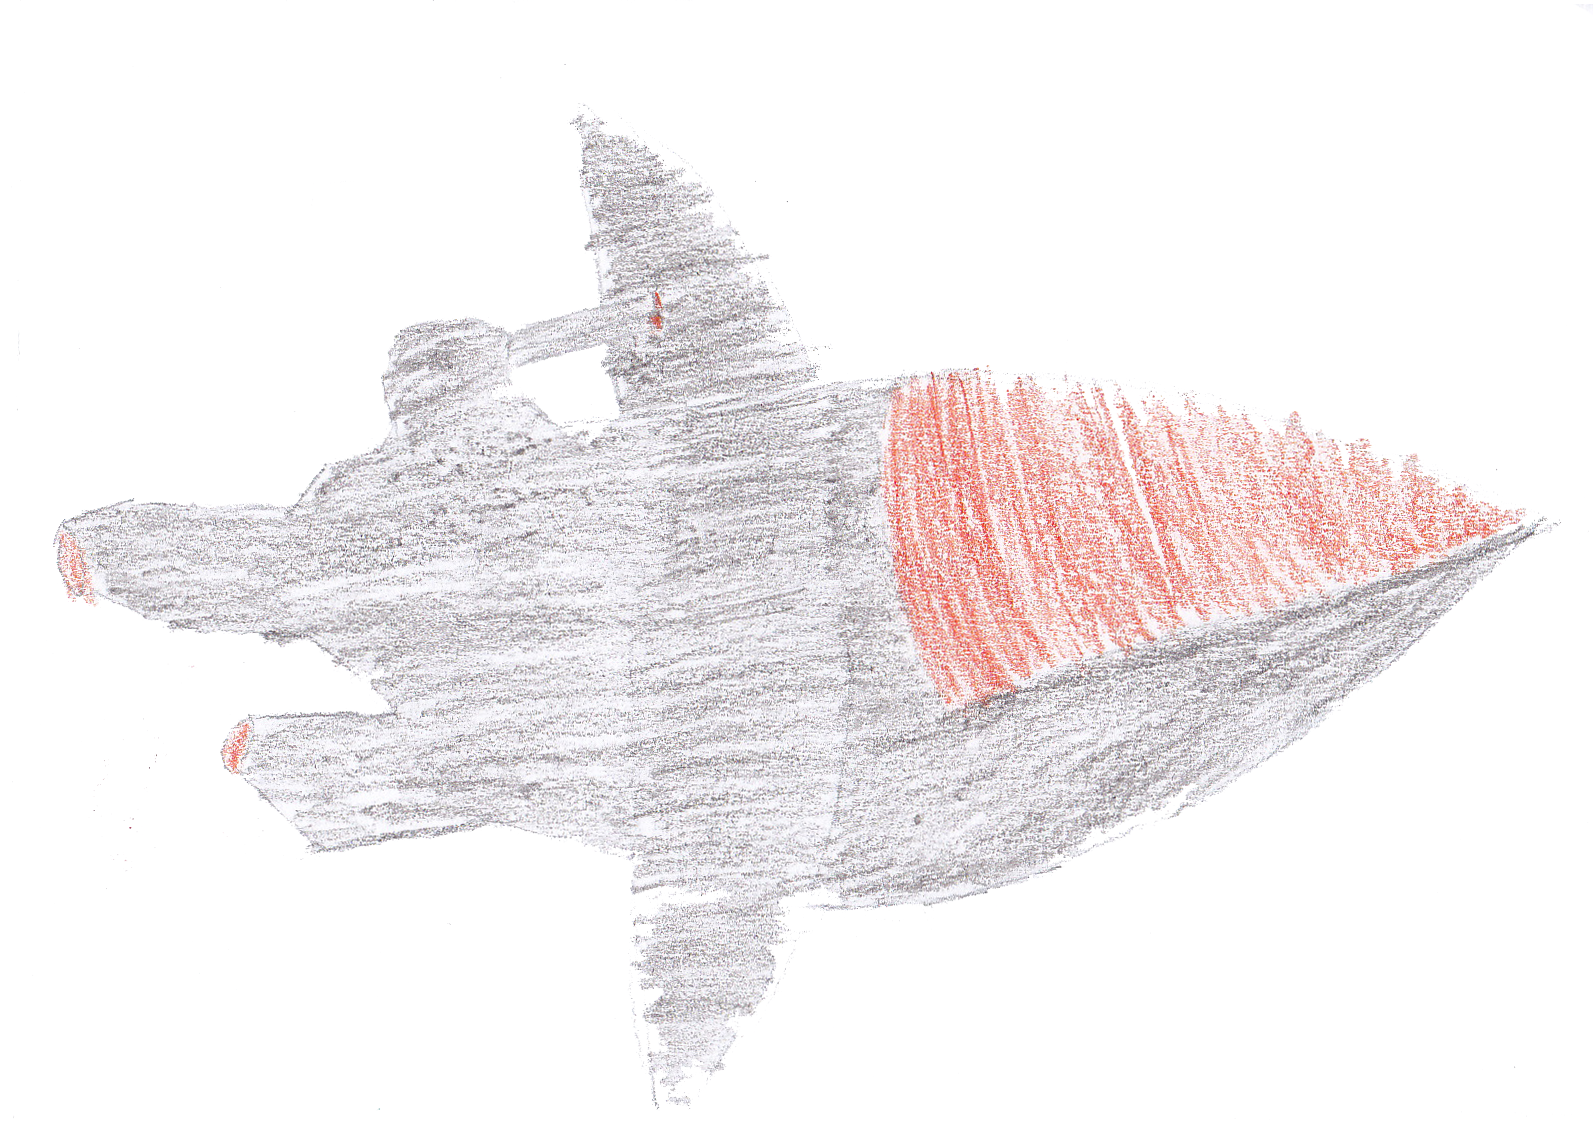
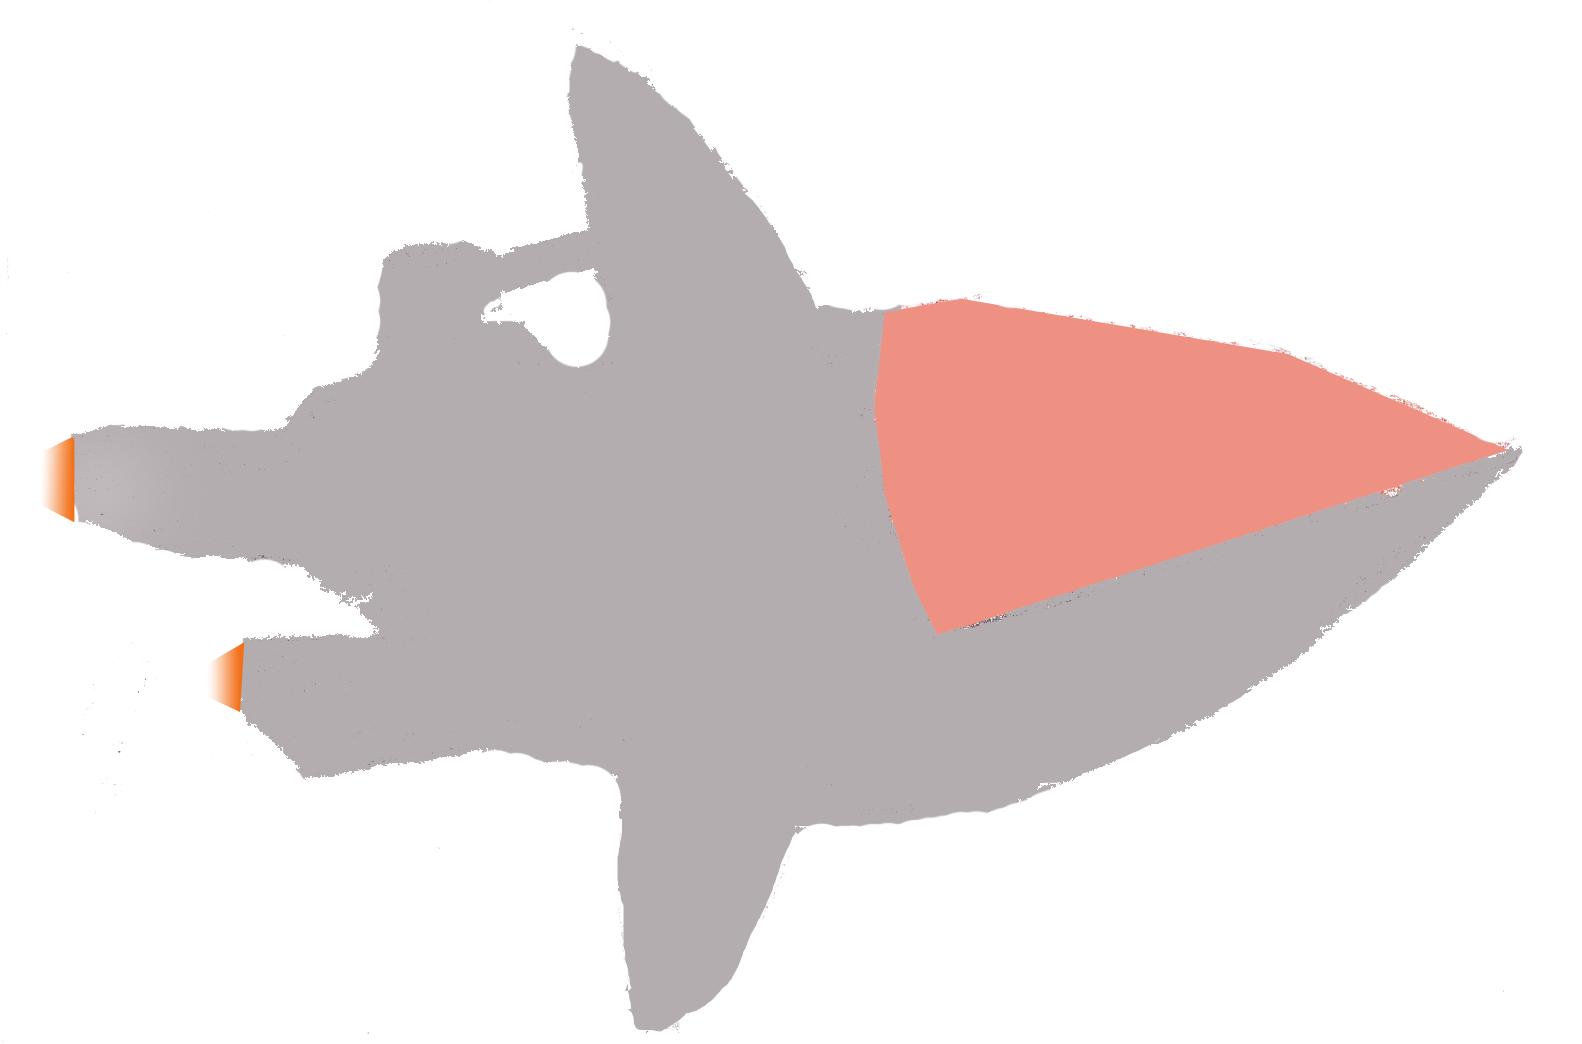
shield

diff --git a/script.js b/script.js
@@ -444,14 +444,16 @@ audio.appendChild(source);
         image:baseImg,
     });
     var shieldPic =new Kinetic.Image({
-        x: stage.getWidth() / 2 -80,
-        y: stage.getHeight() / 2 -80,
-        width: 200,
-        height: 200,
+        x: (stage.getWidth() / 2)-136,
+        y: (stage.getHeight() / 2)-155,
+        width: 320,
+        height: 320,
         image:shieldImage,
     });
-    shieldImage.hide();
+    shieldPic.hide();
     layer.add(shieldPic);
+    stage.add(layer);
+    
     function submit(){
         var correct =false
         for(var i = 0; i <enemies.length; i++ ){
@@ -636,12 +638,18 @@ audio.appendChild(source);
              numShield--;
             $('.numShield').text('Shield: ' + numShield);
             shieldOn = true;
+            shieldPic.show();
+            layer.draw();
             var timer = window.setInterval(function(){
                 counter ++;
+                $('.numShield').text(5-counter);
                 if(counter == 5)
                 {
                     clearInterval(timer);  
                     shieldOn=false;
+                     $('.numShield').text("Shield: " + numShield);
+                     shieldPic.hide();
+                     layer.draw();
                 }
             }, 1000);
            
@@ -661,6 +669,15 @@ audio.appendChild(source);
              anim[i].start();    
         }
         }
+    }
+    function shipAnimate()
+    {
+        var animate = new Kinetic.Animation(function(frame){
+            var yShift = 12*Math.sin(frame.time/1000);
+            base.setY(yShift+ stage.getHeight() / 2 -50);
+            shieldPic.setY(yShift + (stage.getHeight() / 2)-155);
+        }, layer);
+        animate.start();
     }
     function animate(num) 
     {

diff --git a/index.html b/index.html
@@ -166,7 +166,7 @@
         <div id="help2">
             <h2>Instructions</h2>
             <p>You are a gallant space explorer who wishes to find and name a new planet.</p>
-            <p>One day, when you are woken up by siren, your AI tells you that the space ship encounters a meteoric stream.</p>
+            <p>One day, when you are woken up by siren, your AI tells you that the space ship encounters an asteroid field.</p>
             <p>You have to destory all the incoming asteroids to survive!</p>
             <p>Use the number pad on the right hand side to solve questions brought by asteroid and destory them!</p>
         </div>
@@ -326,7 +326,7 @@
                 hideDiv('#setting1');
                 hideDiv('#namefield');
                 fadeInDiv('#save');
-				
+				shipAnimate;
 				//below is to load the save info
 				for (var i=0;i<5;i++){
 					if (localStorage['save'+i]){
